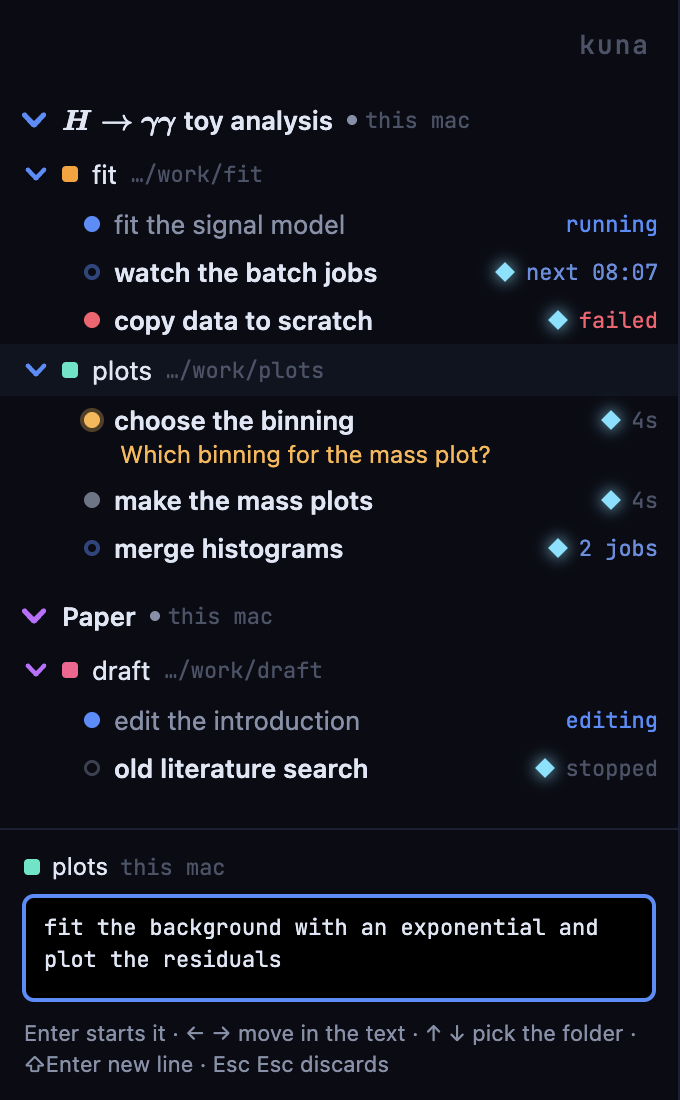
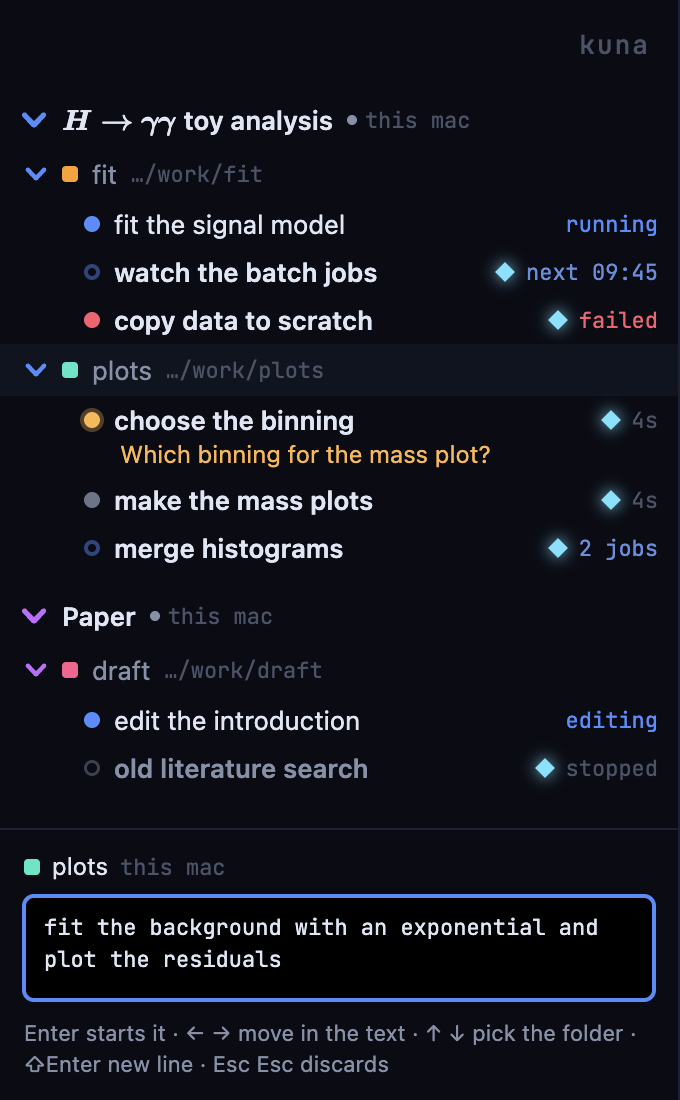
Sidebar: agent names bright, folder names dim
Running agents now carry the brightest names, so it's easy to see what
is running; folders, and agents that exited or were stopped, recede.
Screenshots re-shot.

Claude-Session: https://claude.ai/code/session_01EpbnbQCrjbT2LubvMC5K8B

diff --git a/src/renderer/src/styles.css b/src/renderer/src/styles.css
@@ -414,8 +414,9 @@ button.mini {
   flex: none;
   background: var(--repo, var(--faint));
 }
+/* folders recede so the agents under them stand out */
 .folder-name {
-  color: var(--text);
+  color: var(--dim);
 }
 .folder-path {
   font: var(--fs-mono) var(--mono);
@@ -431,6 +432,10 @@ button.mini {
   min-width: 0;
   overflow: hidden;
   text-overflow: ellipsis;
+  color: var(--text);
+}
+/* bright names are the agents still running; exited and stopped ones dim, read or not */
+.row.st-exited .agent-name {
   color: var(--dim);
 }
 .row.sel .agent-name,

diff --git a/docs/KEYBOARD.md b/docs/KEYBOARD.md
@@ -105,7 +105,8 @@ Click selects; a click on a project or folder rolls it out or in, its ⋯ button
 | grey dot | idle, waiting for the next instruction |
 | red dot | failed |
 | hollow grey dot | exited or stopped. Enter brings a stopped background session back; ⇧⌘R resumes a Kuna agent's conversation |
-| diamond | finished or asked something since you last looked |
+| bright name | an agent that is running. Folder names, and agents that exited or were stopped, are dimmer |
+| diamond, bold name | finished or asked something since you last looked |
 | small square | open in a pane |
 | amber or red gauge | its context is getting long (half the window, or 300k tokens) or almost full (80%; Claude Code will compact it soon) |
 
